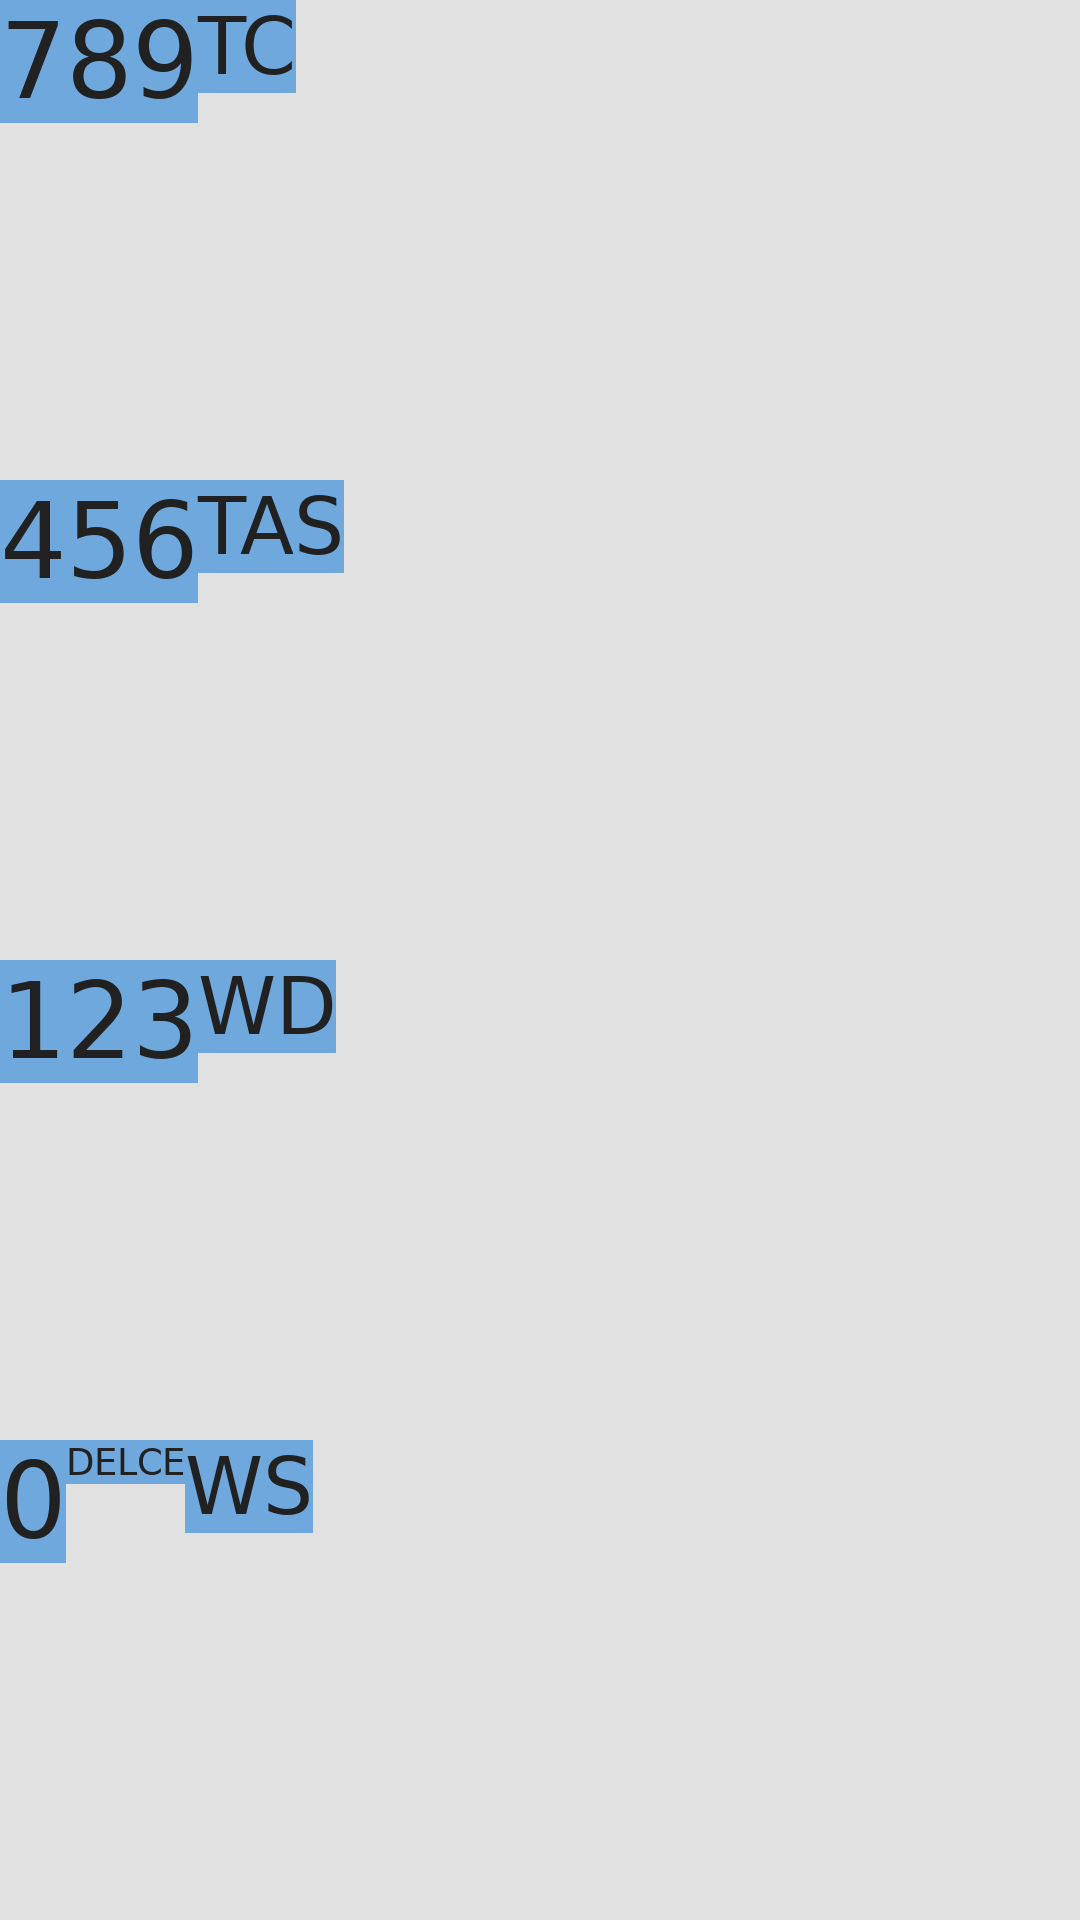
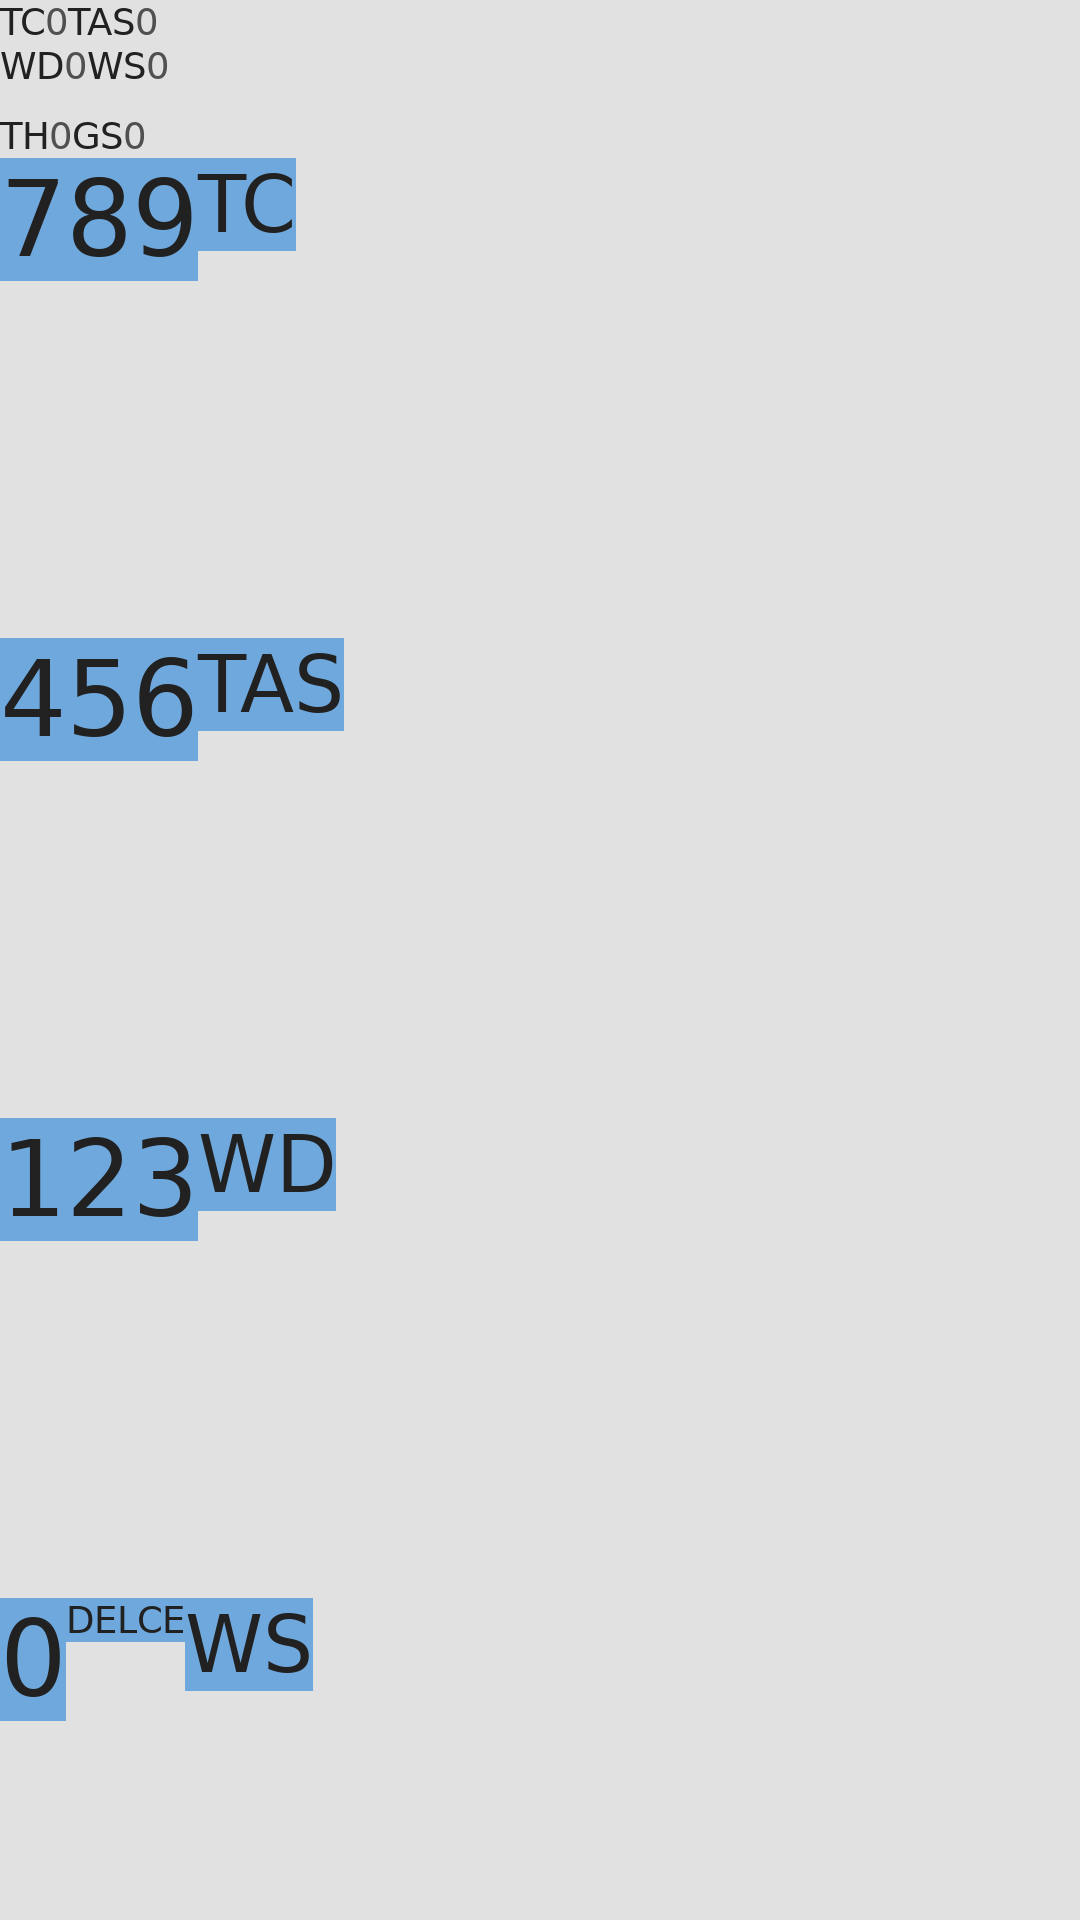
fix(g12): parent-delegation law for framework-namespace <clinit> + activity-less app boot law
FIND-G09-ACF-001 (muellerma stopwatch, independent trace per §25):

FIX-G12-003 (AOSP parent-delegation, ART ClassLinker): the boot classpath
owns android.*/java.* classes — an app-bundled copy must never shadow
framework semantics. muellerma's androidx shading bundles a
Landroid/app/AppComponentFactory; whose <clinit> unconditionally constructs
and throws (verified by DEX disassembly: new-instance; invoke-direct; nop;
throw). Executing it threw NoClassDefFoundError at boot (pc=5). The skip now
lives at the ONE choke point every clinit dispatch passes through
(execute_method_internal prologue), descriptor-form-normalized.

FIND-G11-NOACTIVITY-001 (new cluster, AOSP launcher law): manifest parsing +
direct AXML string-pool evidence shows muellerma declares NO activity at all
(application StopwatchApp, StopwatchService, StopwatchTile QS-tile, provider
only) — a tile-only app the launcher never opens on a real device. The
EXP-031.5 zero-bytecode assertion now applies only to apps declaring a
launchable activity; activity-less apps take the framework-path boot
(G09 FIND-G09-LC-001 law) and are honestly logged as activity_less_boot.

Descriptor-form law extension: ensure_class_initialized normalizes before
the framework-prefix skip (the dot-form Landroid.app.AppComponentFactory;
slipped past the slash-form prefix tests and triggered the stub).

Result: muellerma PARTIAL with byte-identical screenshot (diff=0) but the
[…]

diff --git a/miniandroid/src/dex/dalvik_engine.cpp b/miniandroid/src/dex/dalvik_engine.cpp
@@ -1525,6 +1525,33 @@ bool DalvikExecutionEngine::execute_method_internal(
     halted_ = false;
     halted_on_return_ = false;
     instruction_sequence_ = 0;
+    // G12 FIX-G12-003 (AOSP parent-delegation law, FIND-G09-ACF-001): the
+    // boot classpath owns android.*/java.* classes — an app-bundled copy
+    // (androidx shading, R8 stubs) must never shadow framework semantics.
+    // The one choke point every <clinit> dispatch passes through is here:
+    // a framework-namespace class's static initializer is NOT executed
+    // from app DEX bytecode (muellerma stopwatch: bundled
+    // android.app.AppComponentFactory.<clinit> threw NoClassDefFoundError
+    // at boot and killed the app before the Activity inflated).
+    if (method_name == "<clinit>") {
+        const std::string norm = framework::normalize_class_desc(class_name);
+        if (norm.rfind("Landroid/", 0) == 0 ||
+            norm.rfind("Landroidx/", 0) == 0 ||
+            norm.rfind("Ljava/", 0) == 0 ||
+            norm.rfind("Lkotlin/", 0) == 0 ||
+            norm.rfind("Lkotlinx/", 0) == 0 ||
+            norm.rfind("Lcom/google/", 0) == 0 ||
+            norm.rfind("Lj$/", 0) == 0) {
+            initialized_classes_.insert(norm);
+            initialized_classes_.insert(class_name);
+            std::cerr << "[G12-ACF] framework-namespace <clinit> skipped "
+                      << "(parent-delegation): " << class_name << std::endl;
+            halted_ = false;
+            return true;  // initialized; bytecode not executed
+        }
+    }
+    halted_on_return_ = false;
+    instruction_sequence_ = 0;
     // EXP-042 Phase 1: Per-frame loop detection counter. Reset on each new
     // method invocation so recursive calls do not pollute each other.
     pc_visit_count_.clear();
@@ -1717,8 +1744,20 @@ bool DalvikExecutionEngine::execute_method_internal(
 //   - We guard against re-entrancy: if the class is currently being
 //     initialized (in_initialization_ set), we return immediately.
 bool DalvikExecutionEngine::ensure_class_initialized(const std::string& class_descriptor) {
+    // G12 FIX-G12-001b (descriptor form law): normalize BEFORE any prefix
+    // test — the UI/init layer hands us dot-form descriptors
+    // (Landroid.app.AppComponentFactory;) and the framework-namespace skip
+    // below tests slash prefixes (Landroid/). Without normalization the
+    // app-bundled android.* stub <clinit> executed and threw
+    // NoClassDefFoundError at boot (muellerma stopwatch PARTIAL cluster,
+    // FIND-G09-ACF-001): AOSP parent-delegation law — framework classes
+    // resolve from the boot classpath, an app-bundled android.* copy must
+    // never shadow framework semantics.
+    const std::string normalized =
+        framework::normalize_class_desc(class_descriptor);
     // Already initialized?
-    if (initialized_classes_.count(class_descriptor) > 0) {
+    if (initialized_classes_.count(normalized) > 0 ||
+        initialized_classes_.count(class_descriptor) > 0) {
         return true;
     }
     // Framework classes — skip <clinit> (they're stubbed).
@@ -1727,13 +1766,14 @@ bool DalvikExecutionEngine::ensure_class_initialized(const std::string& class_de
     // libraries that we don't have full bytecode semantics for; their
     // R classes are auto-generated and would need Resource table parsing
     // to populate correctly).
-    if (class_descriptor.rfind("Landroid/", 0) == 0 ||
-        class_descriptor.rfind("Landroidx/", 0) == 0 ||
-        class_descriptor.rfind("Ljava/", 0) == 0 ||
-        class_descriptor.rfind("Lkotlin/", 0) == 0 ||
-        class_descriptor.rfind("Lkotlinx/", 0) == 0 ||
-        class_descriptor.rfind("Lcom/google/", 0) == 0 ||
-        class_descriptor.rfind("Lj$/", 0) == 0) {
+    if (normalized.rfind("Landroid/", 0) == 0 ||
+        normalized.rfind("Landroidx/", 0) == 0 ||
+        normalized.rfind("Ljava/", 0) == 0 ||
+        normalized.rfind("Lkotlin/", 0) == 0 ||
+        normalized.rfind("Lkotlinx/", 0) == 0 ||
+        normalized.rfind("Lcom/google/", 0) == 0 ||
+        normalized.rfind("Lj$/", 0) == 0) {
+        initialized_classes_.insert(normalized);
         initialized_classes_.insert(class_descriptor);
         return true;
     }

diff --git a/miniandroid/src/runtime/execution_engine.cpp b/miniandroid/src/runtime/execution_engine.cpp
@@ -751,7 +751,21 @@ bool ExecutionEngine::stage_execute_application_real_dalvik(ExecutionResult& res
         // EXP-031.5 HARD ASSERTION: Real execution MUST occur in REAL_DALVIK mode
         // NO FALLBACK ALLOWED - Golden Debug Protocol
         // ===================================================================
-        if (dalvik_result.total_instructions_executed == 0) {
+        // G12 FIND-G11-NOACTIVITY-001 (AOSP launcher law): the hard
+        // "bytecode must have executed" assertion applies to apps that
+        // DECLARE a launchable activity. Some real apps (muellerma
+        // stopwatch: Quick-Settings TILE app) declare NO activity at all —
+        // on a real device the launcher never starts them; their DEX runs
+        // only as service/tile processes. For those the framework-path
+        // boot (G09 FIND-G09-LC-001) plus the default window IS the lawful
+        // result; demanding activity bytecode would fail an app real
+        // Android never renders an activity for. Activity apps keep the
+        // honest hard assertion unchanged.
+        const bool declares_no_activity =
+            result.apk_info.main_activity.empty() &&
+            result.apk_info.main_activity_full.empty();
+        if (dalvik_result.total_instructions_executed == 0 &&
+            !declares_no_activity) {
             // CRITICAL: No bytecode was executed!
             std::string error_msg = "EXP-031.5 ASSERTION FAILED: REAL_DALVIK mode selected but ExecuteInstruction() was never called. "
                                    "This means no actual Dalvik bytecode was executed. "
@@ -759,14 +773,22 @@ bool ExecutionEngine::stage_execute_application_real_dalvik(ExecutionResult& res
                                    "(2) No methods found matching entry point criteria, "
                                    "(3) All methods had empty bytecode arrays. "
                                    "Instructions expected: > 0, Actual: 0";
-            
+
             trace_engine_.record_error("REAL_EXECUTION_ASSERTION_FAIL", error_msg,
                                        "ExecutionEngine", "stage_execute_application_real_dalvik");
-            
+
             // DO NOT FALLBACK TO FAKE SUCCESS - Fail honestly per Golden Debug Protocol
             set_error(error_msg);
             result.status = ExecutionStatus::FAILURE;
             return false;
+        }
+        if (dalvik_result.total_instructions_executed == 0 &&
+            declares_no_activity) {
+            trace_engine_.info("ExecutionEngine", "activity_less_boot",
+                               "App declares no launchable activity (AOSP "
+                               "launcher law: tile/service-only app) — "
+                               "framework-path boot without activity "
+                               "bytecode is the lawful result");
         }
         
         // ===================================================================
